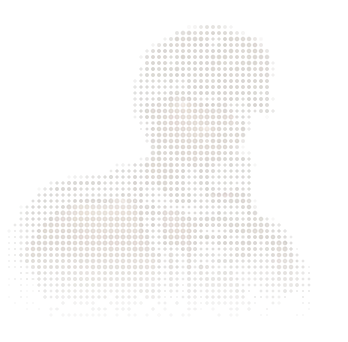
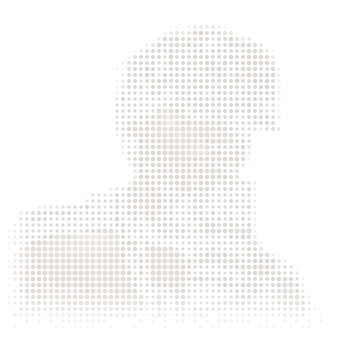
Refine compact portrait and optimize particle repainting

diff --git a/src/components/portrait/particle-renderer.ts b/src/components/portrait/particle-renderer.ts
@@ -56,21 +56,49 @@ export function createParticleRenderer(canvas: HTMLCanvasElement, data: ArrayBuf
   const styles = [...buckets.values()];
   const reach = columns * 0.134;
   const reachSquared = reach * reach;
+  let scaleX = 1;
+  let scaleY = 1;
+  let redrawAll = true;
+  let dirtyLeft = Infinity;
+  let dirtyTop = Infinity;
+  let dirtyRight = -Infinity;
+  let dirtyBottom = -Infinity;
   x.set(homeX);
   y.set(homeY);
 
   function paint() {
-    if (!context) return;
-    context.clearRect(0, 0, columns, rows);
+    if (!context || (!redrawAll && dirtyLeft === Infinity)) return;
+
+    // Pad for the dot radius and align the clip to the actual backing pixels.
+    const left = redrawAll ? 0 : Math.floor((dirtyLeft - 1) * scaleX) / scaleX;
+    const top = redrawAll ? 0 : Math.floor((dirtyTop - 1) * scaleY) / scaleY;
+    const right = redrawAll ? columns : Math.ceil((dirtyRight + 1) * scaleX) / scaleX;
+    const bottom = redrawAll ? rows : Math.ceil((dirtyBottom + 1) * scaleY) / scaleY;
+    if (!redrawAll) {
+      context.save();
+      context.beginPath();
+      context.rect(left, top, right - left, bottom - top);
+      context.clip();
+    }
+    context.clearRect(left, top, right - left, bottom - top);
+
     for (const { indices, radius, ink } of styles) {
       context.beginPath();
       for (const index of indices) {
-        context.moveTo(x[index] + radius, y[index]);
-        context.arc(x[index], y[index], radius, 0, Math.PI * 2);
+        const px = x[index];
+        const py = y[index];
+        if (px + radius >= left && px - radius <= right && py + radius >= top && py - radius <= bottom) {
+          context.moveTo(px + radius, py);
+          context.arc(px, py, radius, 0, Math.PI * 2);
+        }
       }
       context.fillStyle = ink;
       context.fill();
     }
+    if (!redrawAll) context.restore();
+    redrawAll = false;
+    dirtyLeft = dirtyTop = Infinity;
+    dirtyRight = dirtyBottom = -Infinity;
   }
 
   return {
@@ -80,7 +108,10 @@ export function createParticleRenderer(canvas: HTMLCanvasElement, data: ArrayBuf
       const pixelHeight = Math.max(1, Math.round(height * density));
       if (canvas.width !== pixelWidth) canvas.width = pixelWidth;
       if (canvas.height !== pixelHeight) canvas.height = pixelHeight;
-      context.setTransform(pixelWidth / columns, 0, 0, pixelHeight / rows, 0, 0);
+      scaleX = pixelWidth / columns;
+      scaleY = pixelHeight / rows;
+      context.setTransform(scaleX, 0, 0, scaleY, 0, 0);
+      redrawAll = true;
     },
     paint,
     scatter() {
@@ -90,12 +121,14 @@ export function createParticleRenderer(canvas: HTMLCanvasElement, data: ArrayBuf
         x[index] = homeX[index] + (homeX[index] - columns * 0.55) * distance * 0.085;
         y[index] = homeY[index] + (homeY[index] - rows * 0.44) * distance * 0.085;
       }
+      redrawAll = true;
     },
     reset() {
       x.set(homeX);
       y.set(homeY);
       vx.fill(0);
       vy.fill(0);
+      redrawAll = true;
     },
     advance(step: number, disturbance: Disturbance | null) {
       const drag = DRAG ** step;
@@ -119,23 +152,33 @@ export function createParticleRenderer(canvas: HTMLCanvasElement, data: ArrayBuf
           targetY += distance > 0.001 ? dy / distance * push : 0;
         }
 
-        const gapX = targetX - x[index];
-        const gapY = targetY - y[index];
+        const previousX = x[index];
+        const previousY = y[index];
+        const gapX = targetX - previousX;
+        const gapY = targetY - previousY;
         if (Math.abs(gapX) + Math.abs(gapY) + Math.abs(vx[index]) + Math.abs(vy[index]) < QUIET) {
           x[index] = targetX;
           y[index] = targetY;
           vx[index] = 0;
           vy[index] = 0;
-          continue;
+        } else {
+          vx[index] = (vx[index] + gapX * SPRING * step) * drag;
+          vy[index] = (vy[index] + gapY * SPRING * step) * drag;
+          x[index] += vx[index] * step;
+          y[index] += vy[index] * step;
+          moving = true;
         }
 
-        vx[index] = (vx[index] + gapX * SPRING * step) * drag;
-        vy[index] = (vy[index] + gapY * SPRING * step) * drag;
-        x[index] += vx[index] * step;
-        y[index] += vy[index] * step;
-        moving = true;
+        if (!redrawAll && (previousX !== x[index] || previousY !== y[index])) {
+          dirtyLeft = Math.min(dirtyLeft, previousX, x[index]);
+          dirtyTop = Math.min(dirtyTop, previousY, y[index]);
+          dirtyRight = Math.max(dirtyRight, previousX, x[index]);
+          dirtyBottom = Math.max(dirtyBottom, previousY, y[index]);
+        }
       }
 
+      // One complete resting frame restores every backing pixel after partial repaints.
+      if (!moving && !disturbance) redrawAll = true;
       return moving;
     },
   };

diff --git a/src/components/portrait/portrait-interaction.ts b/src/components/portrait/portrait-interaction.ts
@@ -132,7 +132,24 @@ export function enablePortraitMotion(root: HTMLElement, canvas: HTMLCanvasElemen
       })
       .catch(() => {
         if (!loading.signal.aborted) showFallback();
+      })
+      .finally(() => {
+        if (request === loading) request = undefined;
       });
+  }
+
+  function onPageHide() {
+    pause();
+    request?.abort();
+    if (!renderer) requested = "";
+  }
+
+  function onPageShow(event: PageTransitionEvent) {
+    if (!event.persisted) return;
+    const { top, right, bottom, left } = root.getBoundingClientRect();
+    visible = top < window.innerHeight && right > 0 && bottom > 0 && left < window.innerWidth;
+    if (!renderer) requested = "";
+    reconcile();
   }
 
   function at(event: PointerEvent, strength: number): Disturbance {
@@ -225,6 +242,8 @@ export function enablePortraitMotion(root: HTMLElement, canvas: HTMLCanvasElemen
   root.addEventListener("pointercancel", onCancel, passive);
   root.addEventListener("lostpointercapture", onCancel, passive);
   document.addEventListener("visibilitychange", reconcile, { signal });
+  window.addEventListener("pagehide", onPageHide, { signal });
+  window.addEventListener("pageshow", onPageShow, { signal });
   window.addEventListener("resize", sizeCanvas, passive);
   reduced.addEventListener("change", reconcile, { signal });
   wide.addEventListener("change", reconcile, { signal });

diff --git a/src/components/portrait/DotPortrait.module.css b/src/components/portrait/DotPortrait.module.css
@@ -27,12 +27,12 @@
 .portrait[data-dot-ready] .picture { opacity: 0; }
 .portrait[data-dot-ready] .surface { visibility: visible; }
 
-@media (48rem <= width < 64rem) and (height <= 30rem) {
+@media (35rem <= width < 48rem) and (height <= 30rem), (48rem <= width < 64rem) {
   .portrait {
     position: absolute;
     inset-block-start: 49%;
     inset-inline-end: 0;
-    width: 20vw;
+    width: clamp(7.5rem, 20vw, 13rem);
     margin: 0;
     transform: translateY(-50%);
   }
